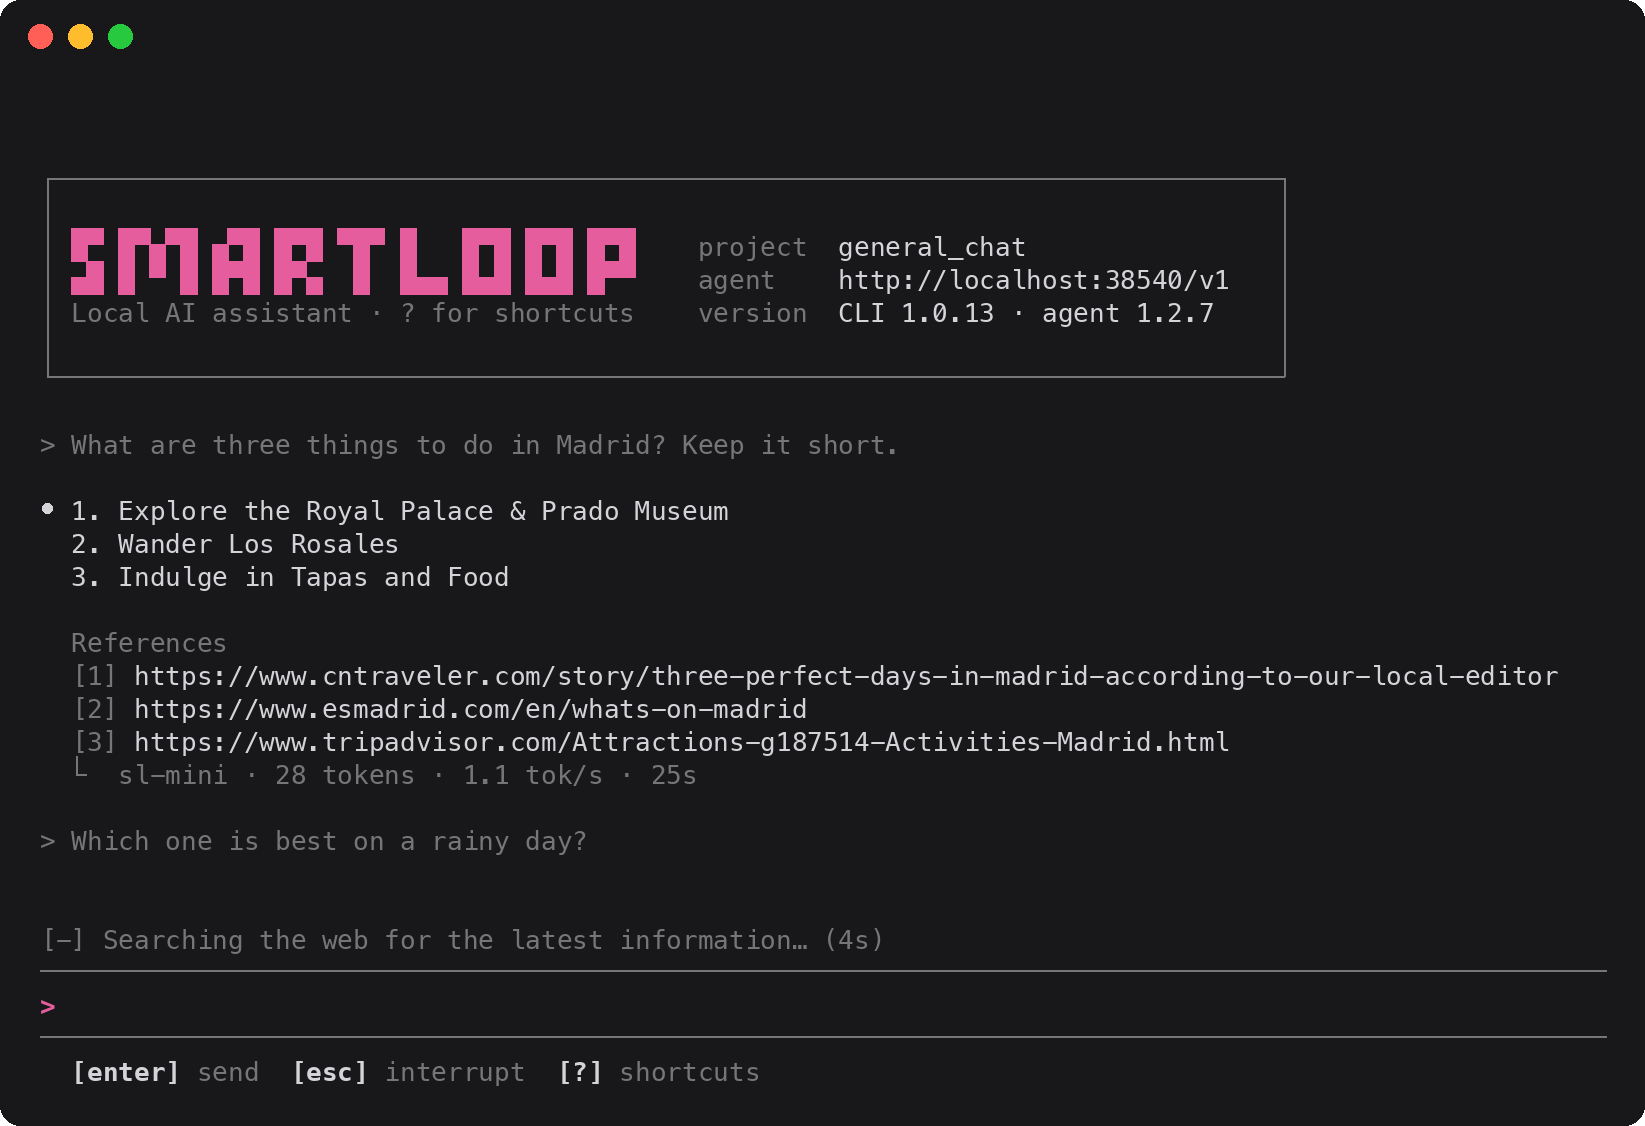
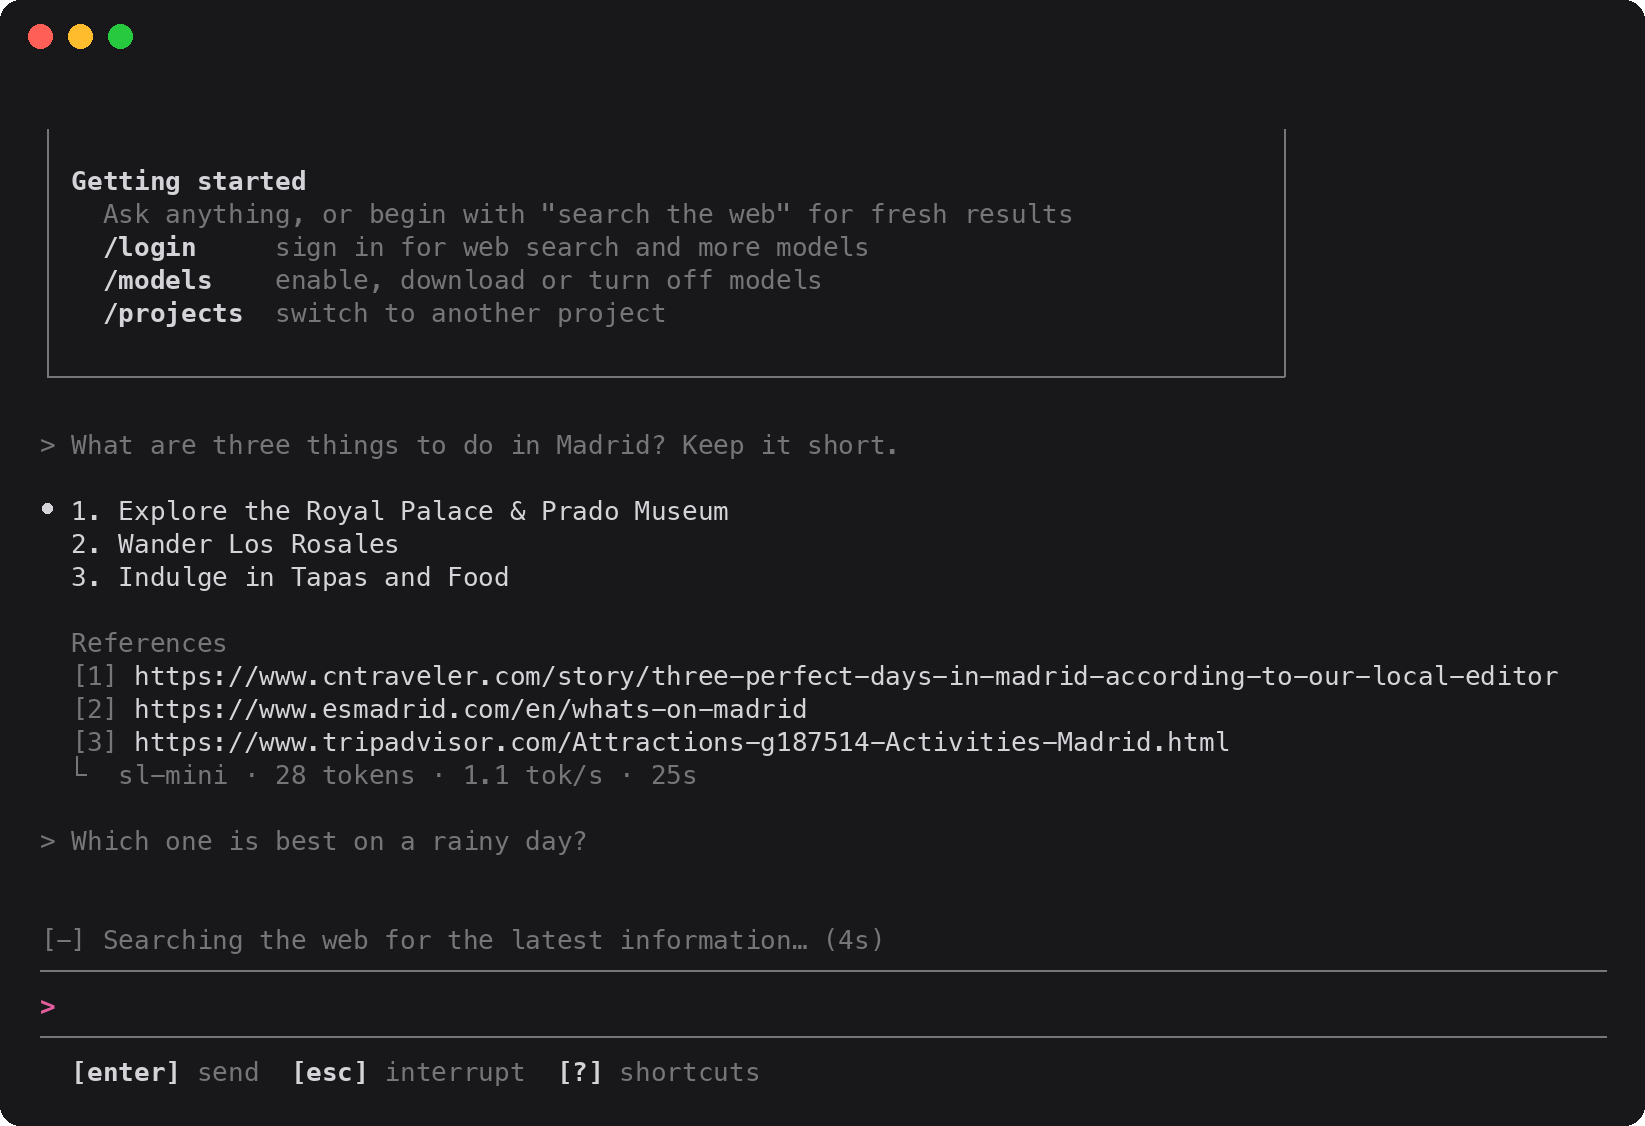
Add getting-started tips to the welcome card
Under the logo and details, the card now says how to ask ("search the
web" for fresh results) and which commands to reach for first: /login,
/models and /projects, set in bold like the other key hints. On a screen
too narrow for them, the tips are left out.

Changed region(s): [[0.031, 0.1554, 0.7441, 0.3108]]

diff --git a/src/tui.rs b/src/tui.rs
@@ -1144,7 +1144,7 @@ impl App {
     }
 
     /// The welcome card: the logo on the left, and on the right the
-    /// project, the agent and the versions.
+    /// project, the agent and the versions; getting-started tips under them.
     ///
     /// ```text
     /// ╭───────────────────────────────────────────────────────────────────────────╮
@@ -1152,6 +1152,12 @@ impl App {
     /// │ █▀ █▀▄▀█ ▄▀█ █▀█ ▀█▀ █   █▀█ █▀█ █▀█    project  general_chat               │
     /// │ ▄█ █ ▀ █ █▀█ █▀▄  █  █▄▄ █▄█ █▄█ █▀▀    agent    http://localhost:38540/v1  │
     /// │ Local AI assistant · ? for shortcuts    version  CLI 1.0.14 · agent 1.2.7   │
+    /// │                                                                           │
+    /// │ Getting started                                                           │
+    /// │   Ask anything, or begin with "search the web" for fresh results          │
+    /// │   /login     sign in for web search and more models                       │
+    /// │   /models    enable, download or turn off models                          │
+    /// │   /projects  switch to another project                                    │
     /// │                                                                           │
     /// ╰───────────────────────────────────────────────────────────────────────────╯
     /// ```
@@ -1202,6 +1208,14 @@ impl App {
             body.extend(right.iter().map(|(l, v)| row(l, &truncate(v, inner.saturating_sub(9)))));
             body
         };
+
+        // Getting started, under the logo and details, when there's room.
+        let mut body = body;
+        let tips = getting_started();
+        if tips.iter().all(|t| t.width() <= inner) {
+            body.push(Line::default());
+            body.extend(tips);
+        }
 
         // Shrunk to its content, with two columns of margin on the right.
         let inner = (body.iter().map(Line::width).max().unwrap_or(0) + 2).min(inner);
@@ -1557,6 +1571,28 @@ fn base64(bytes: &[u8]) -> String {
     out
 }
 
+/// The welcome card's first steps: how to ask, and the commands to reach
+/// for first.
+fn getting_started() -> Vec<Line<'static>> {
+    let command = |name: &str, what: &str| {
+        Line::from(vec![
+            Span::raw("  "),
+            Span::styled(format!("{:<11}", name), key_style()),
+            Span::styled(what.to_string(), dim()),
+        ])
+    };
+    vec![
+        Line::from(Span::styled("Getting started", key_style())),
+        Line::from(vec![
+            Span::raw("  "),
+            Span::styled("Ask anything, or begin with \"search the web\" for fresh results", dim()),
+        ]),
+        command("/login", "sign in for web search and more models"),
+        command("/models", "enable, download or turn off models"),
+        command("/projects", "switch to another project"),
+    ]
+}
+
 /// The slash commands, for hints as they're typed.
 /// `/exit` and `/q` also quit, but aren't hinted.
 const COMMANDS: [(&str, &str); 9] = [
@@ -1737,7 +1773,9 @@ mod tests {
         let wide = screen(&app, 120, 24);
         let top = wide.lines().find(|r| r.starts_with('╭')).expect(&wide);
         assert!(top.ends_with('╮') && top.chars().count() < 100, "{}", wide);
-        assert!(rows[banner - 2].starts_with('╭') && rows[banner + 4].starts_with('╰'), "{}", text);
+        assert!(rows[banner + 4].contains("Getting started"), "{}", text);
+        assert!(rows[banner + 6].contains("/login"), "{}", text);
+        assert!(rows[banner - 2].starts_with('╭') && rows[banner + 10].starts_with('╰'), "{}", text);
         for i in 0..40 {
             app.entries.push(Entry::Notice(format!("line {}", i)));
         }
@@ -1876,7 +1914,8 @@ mod tests {
         let text = screen(&app, 80, 24);
         assert!(text.contains("› /login"), "{}", text);
         assert!(text.contains("  /logout"), "{}", text);
-        assert!(!text.contains("/models"), "{}", text);
+        // The /models hint (not the card's tip) is filtered out.
+        assert!(!text.contains("enable, disable and download models"), "{}", text);
         app.key(KeyEvent::new(KeyCode::Down, KeyModifiers::NONE));
         app.key(KeyEvent::new(KeyCode::Tab, KeyModifiers::NONE));
         assert_eq!(app.input, "/logout ");
